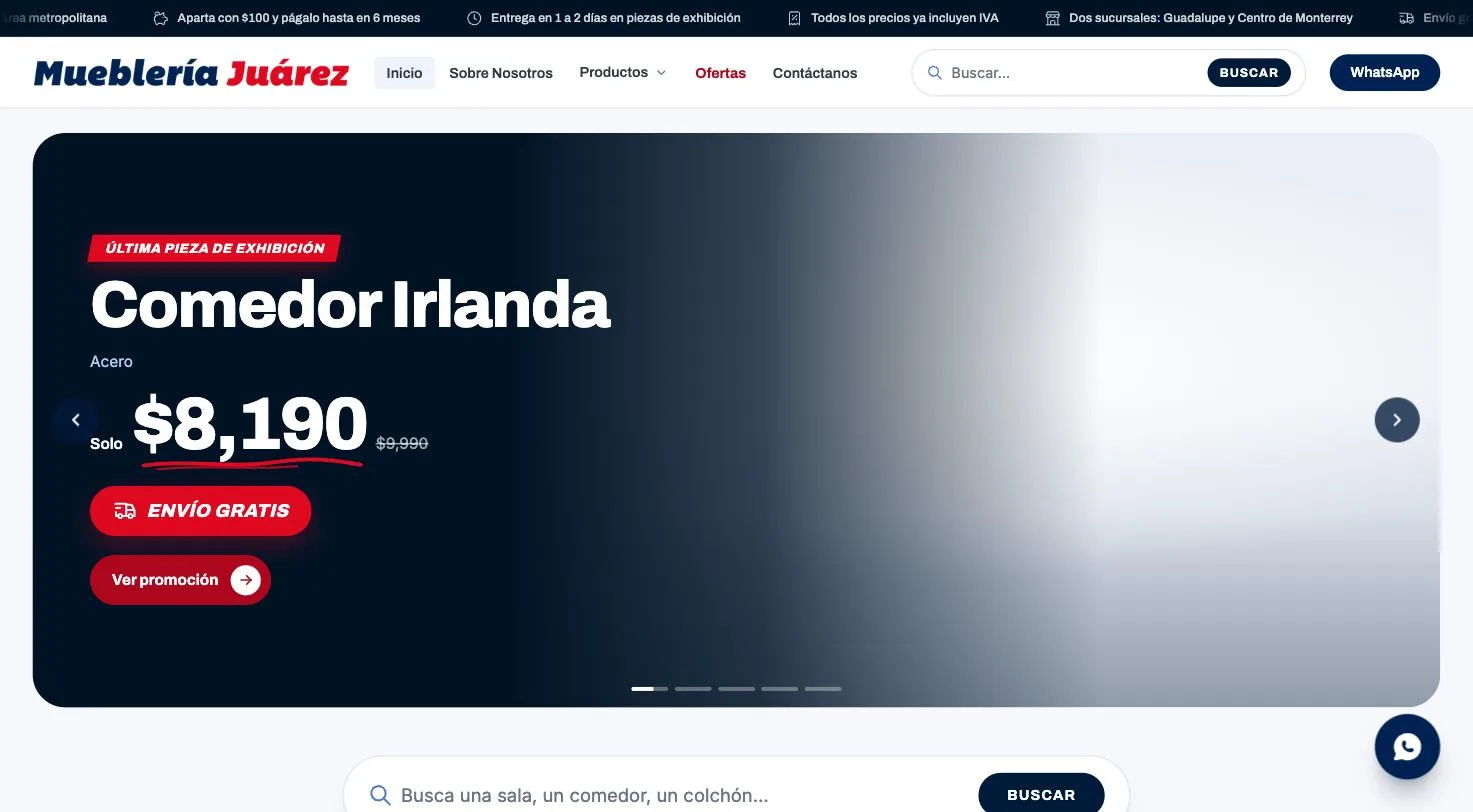
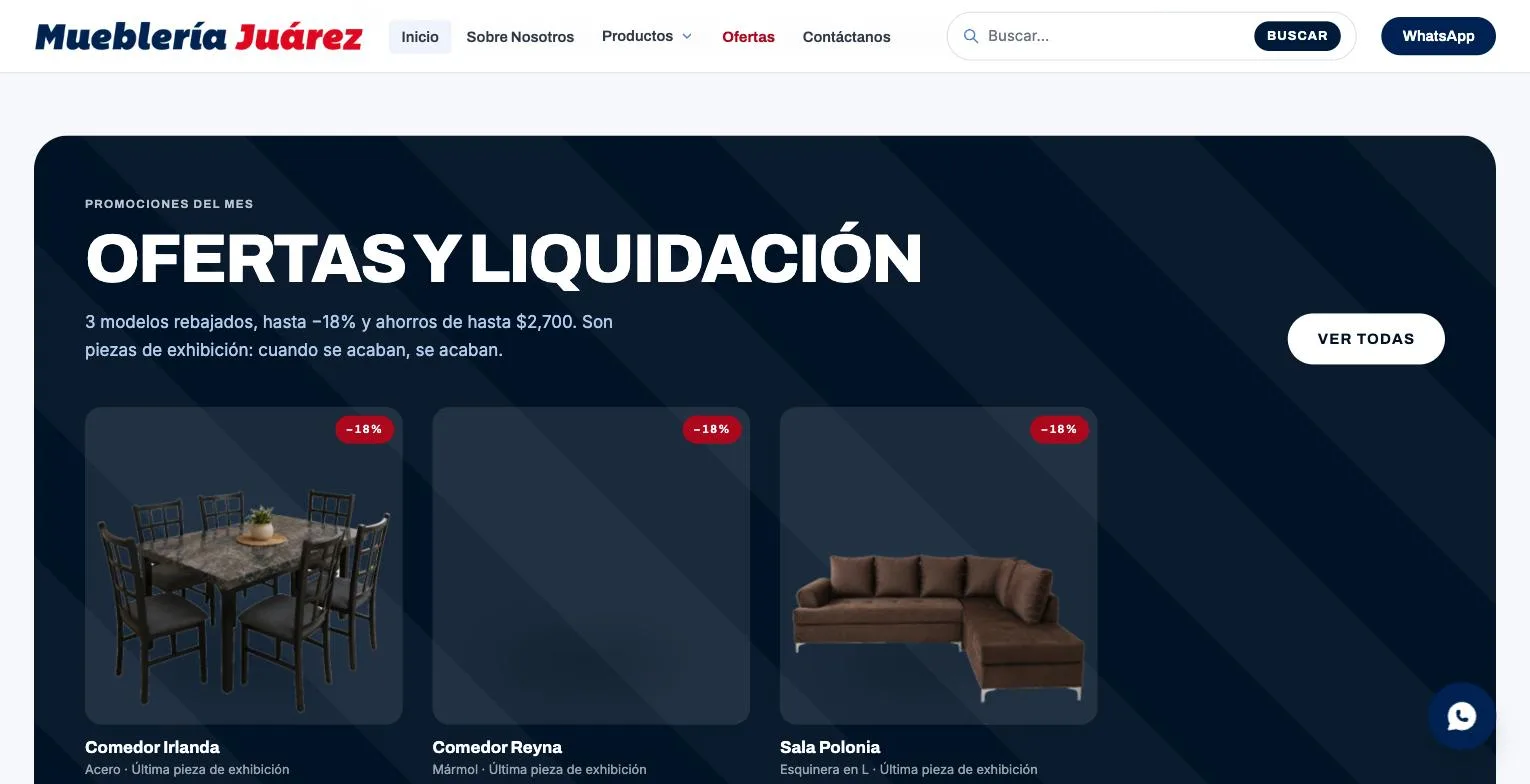
Publish TaKo case, fix project filtering, add covers for Flores, VIGA campaign, portal vehicular and more

diff --git a/src/content/projects/tako-foodhub.md b/src/content/projects/tako-foodhub.md
@@ -22,7 +22,7 @@ stack:
 outcome: "En desarrollo. La plataforma del negocio y el punto de venta se construyen sobre repositorios separados con guía de instalación compartida."
 featured: false
 order: 18
-draft: true
+draft: false
 ---
 
-Proyecto en curso dentro de una colaboración con otra consultoría. Se publicará cuando el cliente confirme el alcance que puede mostrarse.
+Proyecto en curso dentro de una colaboración con otra consultoría. La separación en repositorios por servicio permite que cada equipo despliegue su parte sin bloquear a los demás.

diff --git a/src/content/projects/portal-vehicular-grupo-mont.md b/src/content/projects/portal-vehicular-grupo-mont.md
@@ -7,6 +7,8 @@ year: 2026
 line: "software"
 status: "produccion"
 role: "cliente"
+cover: "/projects/portal-vehicular-grupo-mont.webp"
+coverAlt: "Portal vehicular de Grupo Mont con la flotilla registrada y acceso por QR"
 order: 11
 summary: "Cada vehículo de la flotilla lleva un QR en su marbete. Al escanearlo se abre su expediente; el personal externo ve solo el reglamento."
 problem: "La información de cada vehículo (documentos, seguros, verificaciones) estaba repartida en carpetas y personas. En una revisión nadie la tenía a la mano."

diff --git a/src/content/projects/red-viga.md b/src/content/projects/red-viga.md
@@ -7,6 +7,8 @@ year: 2025
 line: "sitios"
 status: "produccion"
 role: "cliente"
+cover: "/projects/red-viga.webp"
+coverAlt: "Portada de metalesyrecicladosviga.com con inventario y cotización inmediata"
 order: 21
 summary: "Sitio corporativo con WordPress como administrador y render estático, un sitio satélite por línea de producto y un hub instalable para el equipo."
 problem: "Un grupo con varias marcas y dominios necesitaba publicar inventario y contenido desde un solo lugar sin sacrificar velocidad ni posicionamiento."

diff --git a/src/content/projects/plan-logistico-farid.md b/src/content/projects/plan-logistico-farid.md
@@ -7,6 +7,8 @@ year: 2026
 line: "software"
 status: "desarrollo"
 role: "cliente"
+cover: "/projects/plan-logistico-farid.webp"
+coverAlt: "Acceso por PIN al sistema de planeación logística de Proveedora Farid"
 order: 12
 summary: "Planeación de rutas de entrega con mapa, lectura automática de documentos y una API propia para la operación diaria."
 problem: "Las rutas se armaban a mano a partir de pedidos en papel y hojas de cálculo, y cada cambio implicaba rehacer el plan completo."

diff --git a/src/content/projects/cotizador-barreta.md b/src/content/projects/cotizador-barreta.md
@@ -7,6 +7,8 @@ year: 2025
 line: "software"
 status: "produccion"
 role: "cliente"
+cover: "/projects/cotizador-barreta.webp"
+coverAlt: "Cotizador multiempresa con datos de cliente, materiales y totales"
 order: 15
 summary: "Generador de cotizaciones en PDF para un grupo con varias razones sociales y marcas, con datos fiscales y sitios de cada una."
 problem: "Cada cotización se armaba a mano en un procesador de textos, con errores en datos fiscales y formatos distintos por empresa."

diff --git a/src/content/projects/muebleria-juarez.md b/src/content/projects/muebleria-juarez.md
@@ -7,6 +7,8 @@ year: 2026
 line: "sitios"
 status: "desarrollo"
 role: "cliente"
+cover: "/projects/muebleria-juarez.webp"
+coverAlt: "Portada de muebleriajuarez.com tras la migración al VPS"
 order: 22
 summary: "Migración del sitio WordPress a un VPS propio con Docker y construcción de un catálogo rápido administrado desde WordPress."
 problem: "El sitio vivía en un hosting compartido lento y el catálogo dependía del tema de WordPress para todo."

diff --git a/src/content/projects/campana-viga-racks.md b/src/content/projects/campana-viga-racks.md
@@ -7,6 +7,8 @@ year: 2026
 line: "marketing"
 status: "produccion"
 role: "cliente"
+cover: "/projects/campana-viga-racks.webp"
+coverAlt: "Landing de racks industriales usados de VIGA con WhatsApp en un toque"
 featured: true
 order: 8
 summary: "Campaña de búsqueda para un nicho industrial de ticket alto, operada con un agente y reglas duras: $4.56 millones MXN en ventas atribuidas con $1,370 MXN de pauta real."

diff --git a/src/content/projects/flores-abogadas.md b/src/content/projects/flores-abogadas.md
@@ -23,6 +23,8 @@ stack:
   - "Node"
 outcome: "Sitio en producción en floresabogadas.com.mx con mantenimiento mensual contratado."
 url: "https://floresabogadas.com.mx"
+cover: "/projects/flores-abogadas.webp"
+coverAlt: "Portada de floresabogadas.com.mx"
 featured: false
 order: 21
 ---
